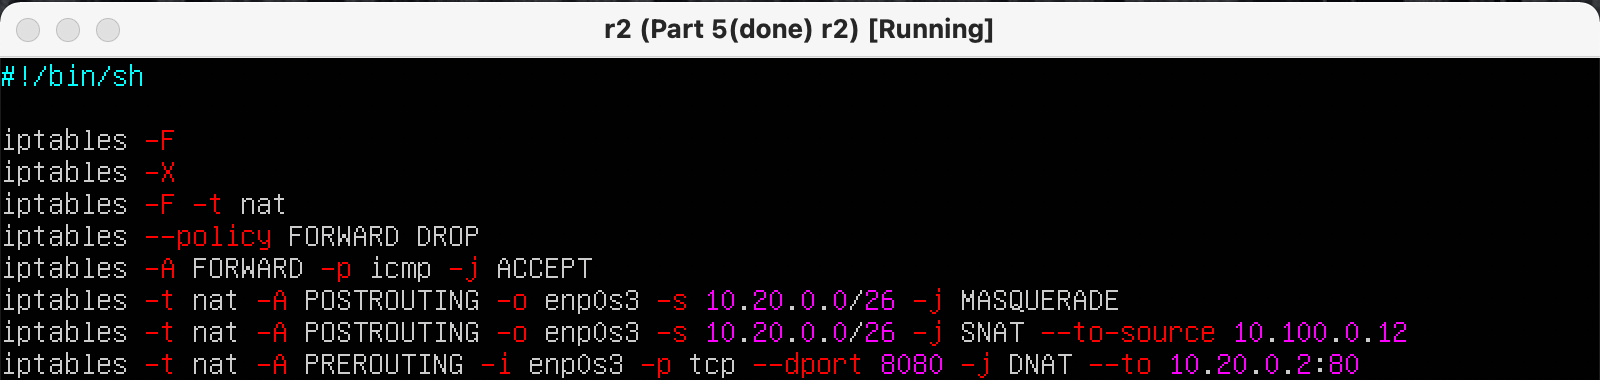
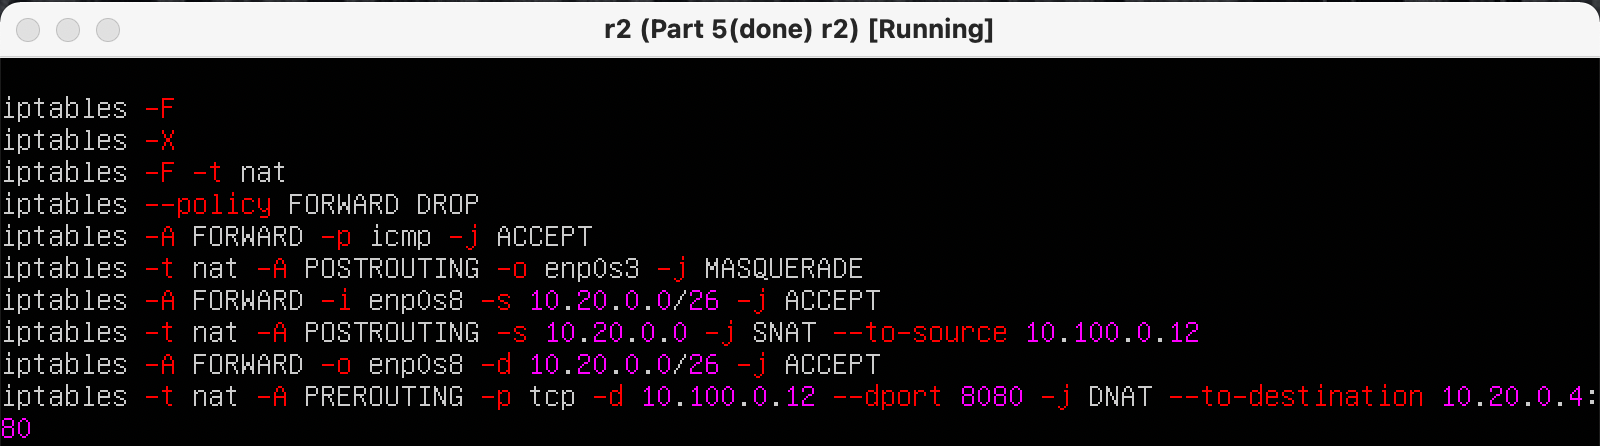
dnat

diff --git a/src/report.md b/src/report.md
@@ -431,7 +431,13 @@ ws11:
 
 ![r2_lastfirewall](screens/r2_lastfirewall.png)
 
+Проверить соединение по TCP для SNAT
 
+![ws22_telnet](screens/ws22_telnet.png)
+
+Проверить соединение по TCP для DNAT
+
+![r1_telnet](screens/r1_telnet.png)
 
 ## Part 8. Bonus. Introduction to SSH Tunnels
 
